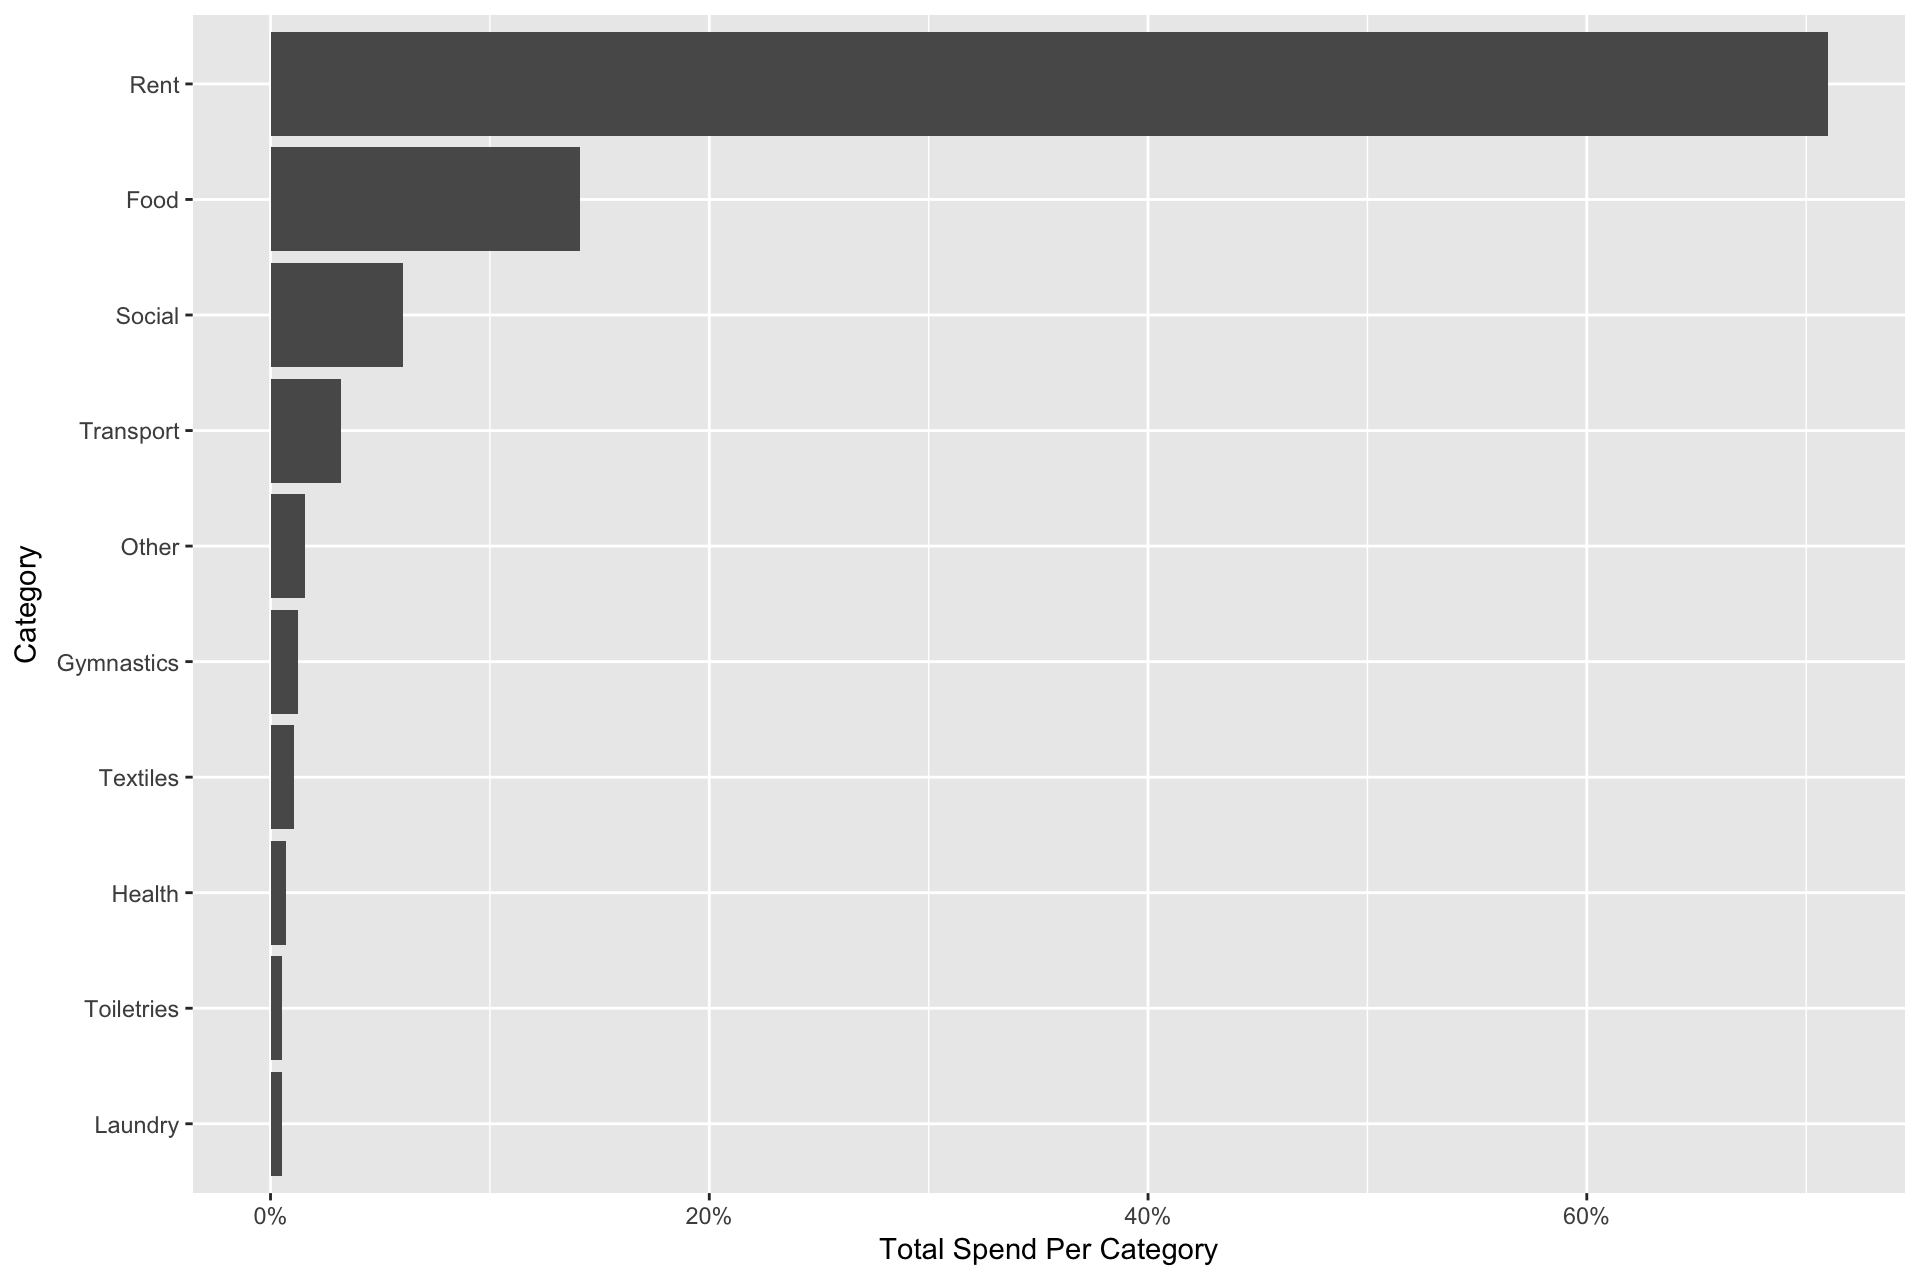
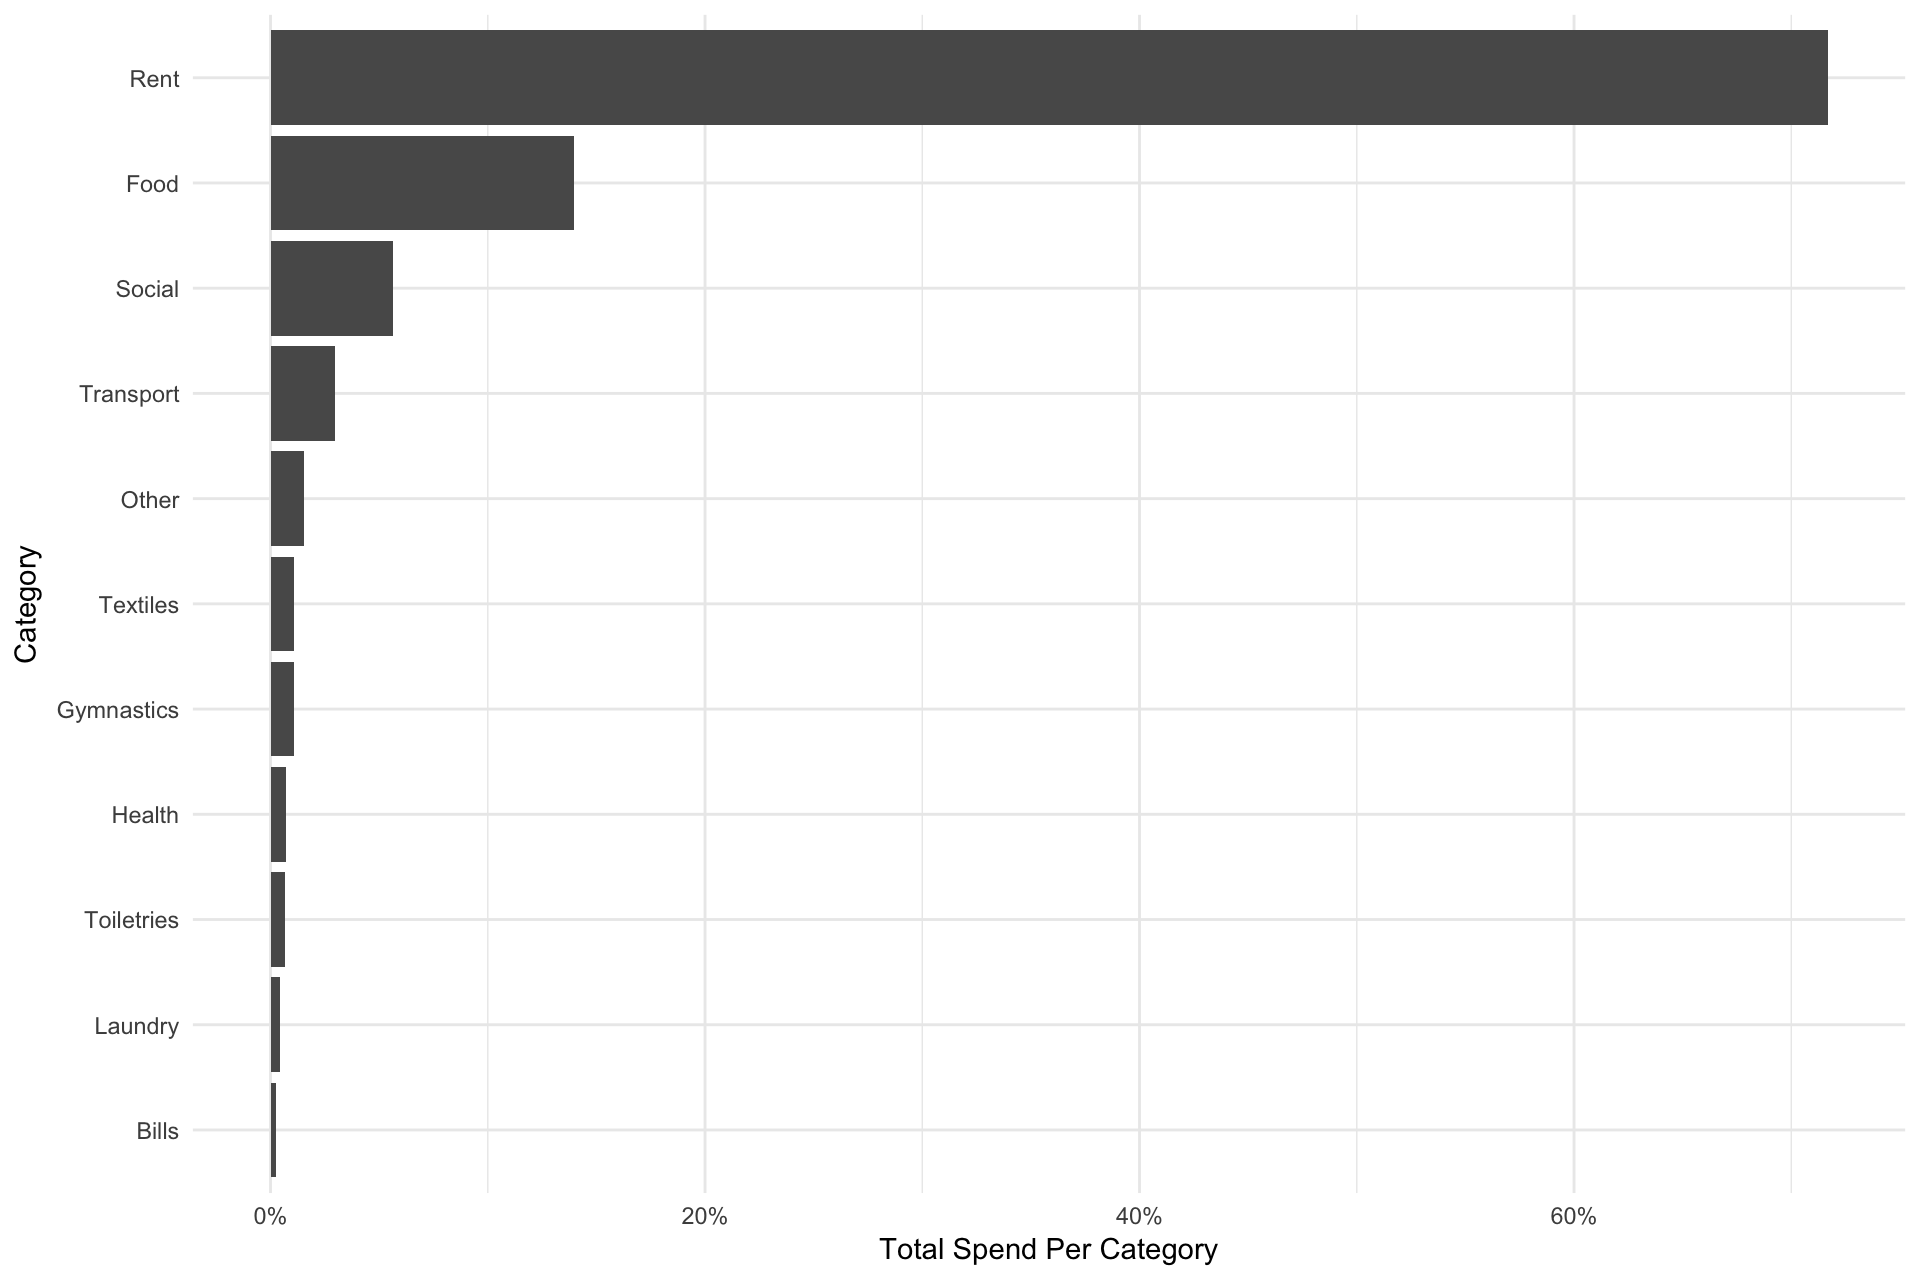
update data + minimal theme plots

diff --git a/README.md b/README.md
@@ -1,7 +1,7 @@
 Spending Habits
 ================
 
-Since 2011 I have been keeping meticulous records of everything I spend money on. I really mean everything, including, for example, the 6 pence I spent on a 75g carrot which I bought at 7:47pm on the 2nd of August 2014 at Tesco Cowley Road Metro! There's a total of 1419 recipts for 3713 items covering a duration of 5 and a half years. The code to repoduce this analysis can be founnd in the [.Rmd](Finance.Rmd) file.
+Since 2011 I have been keeping meticulous records of everything I spend money on. I really mean everything, including, for example, the 6 pence I spent on a 75g carrot which I bought at 7:47pm on the 2nd of August 2014 at Tesco Cowley Road Metro! There's a total of 1773 recipts for 4613 items covering a duration of 5 and a half years. The code to repoduce this analysis can be founnd in the [.Rmd](Finance.Rmd) file.
 
 Looking at the distribution of item prices integer values (£1, £2 etc.) are more common, as well as 25p and 50p increments. I guess consumers prefer round numbers so companies size products accordingly (or just round up and take the difference as profit).
 
@@ -21,7 +21,7 @@ Now I've graduated I can keep track of my spending continuosly rather than terml
 
 <img src="Finance_files/figure-markdown_github/rolling_mean-1.png" width="960" />
 
-Breaking down my spending by category, Rent accounts for over 70% of my spending followed by Food at ~15%.
+Breaking down my spending by category, Rent accounts for 72% of my spending followed by Food at 14%.
 
 <img src="Finance_files/figure-markdown_github/by-category-1.png" width="960" />
 
